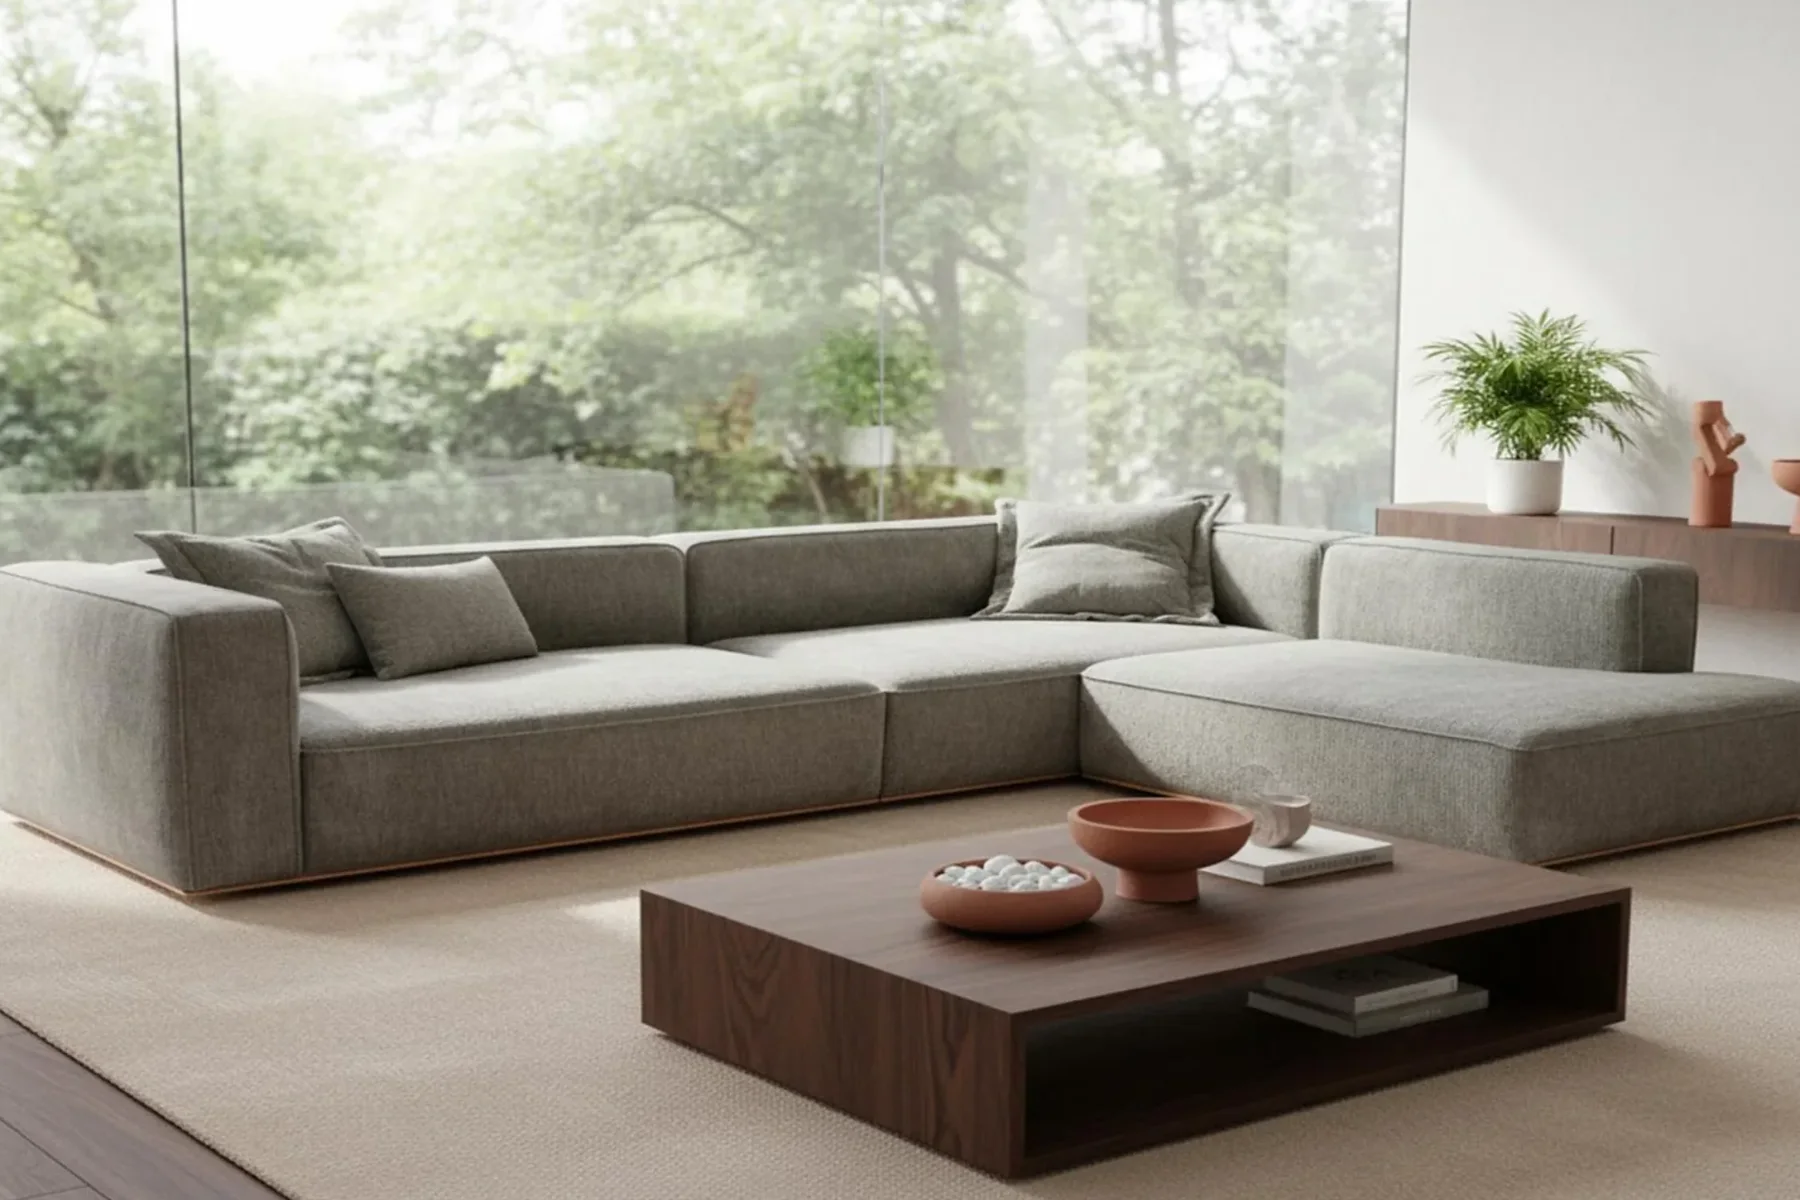
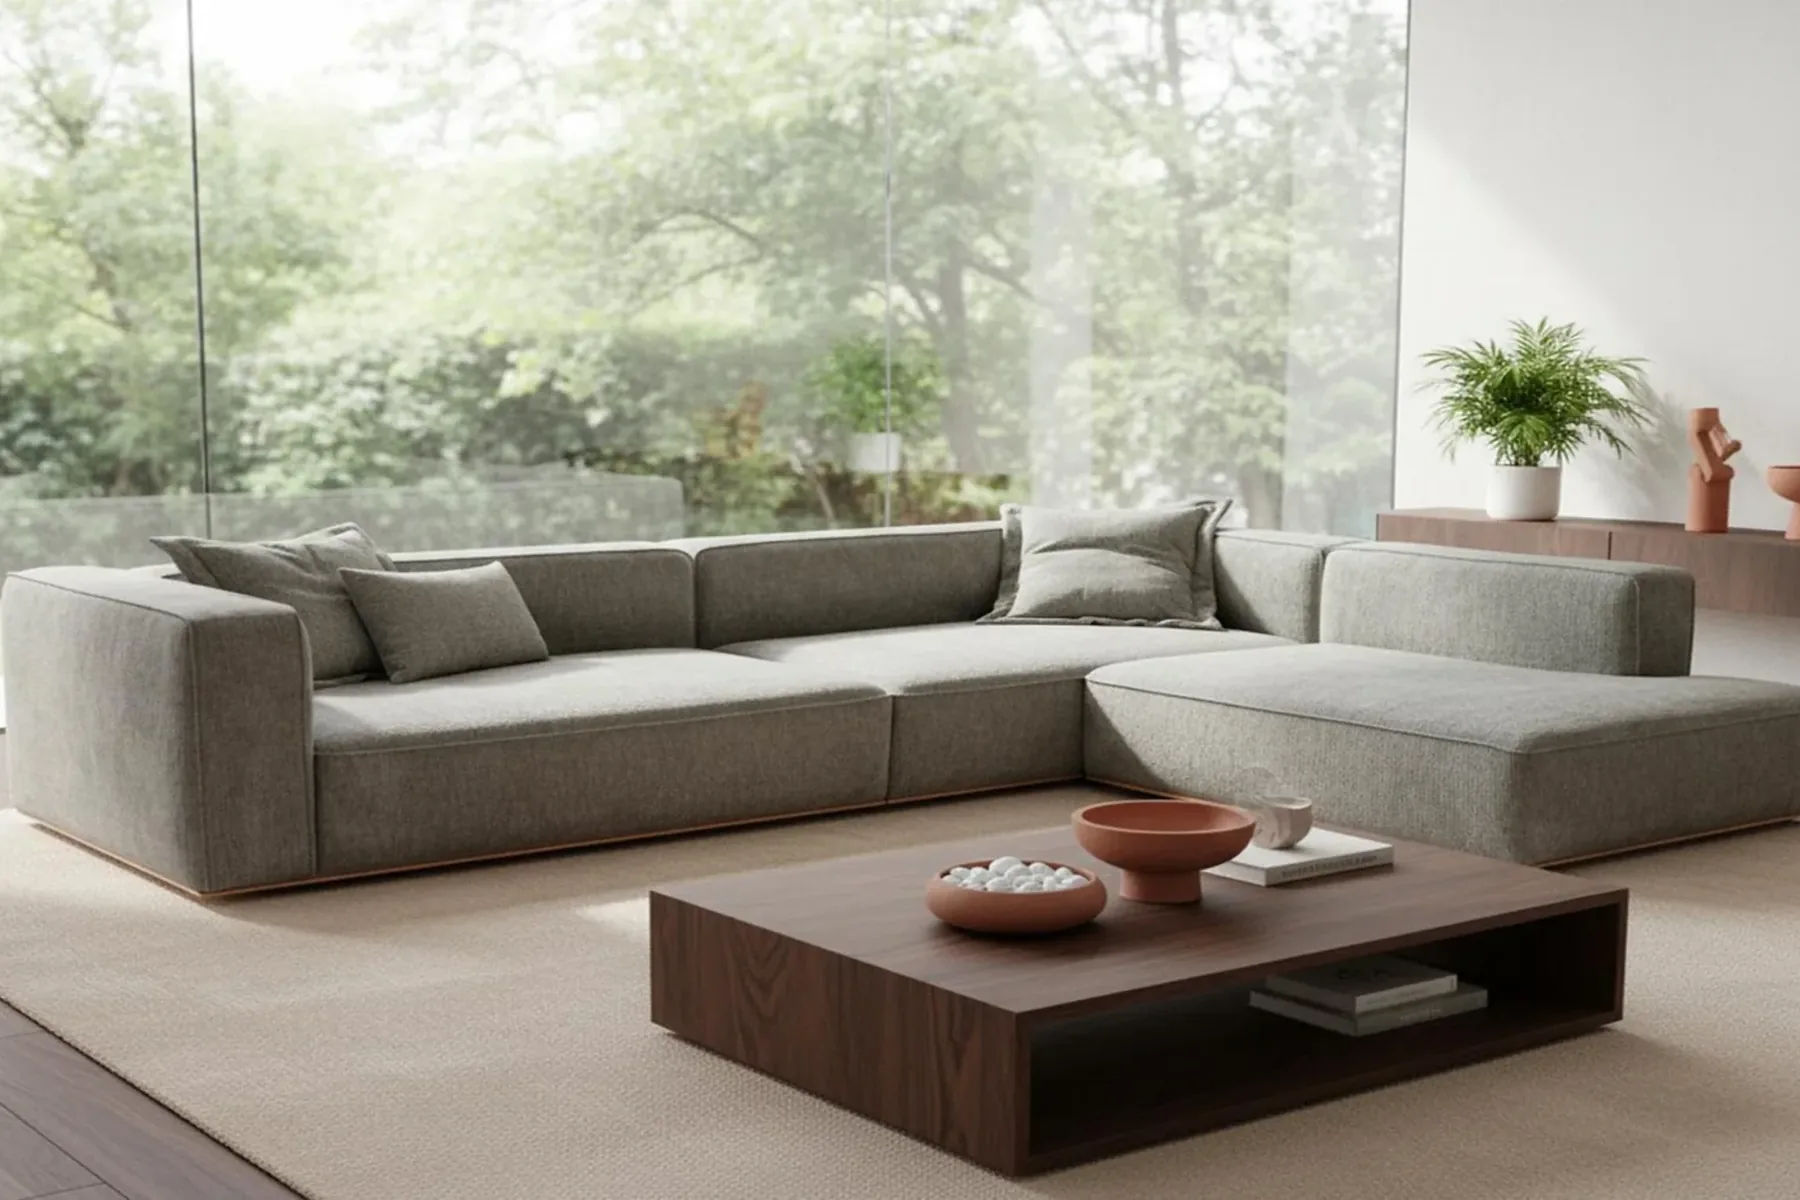
Vorschau aus 465d299: Modelluebersicht: Modena-Karte mit ganzem Sofa und Couchtisch

diff --git a/en/modell-modena.html b/en/modell-modena.html
@@ -16,10 +16,10 @@
 <meta property="og:title" content="Modena – sofatrend">
 <meta property="og:description" content="Low line, visible wood frame all round. Modena relies on a low silhouette and the greatest seat depth in the range. The optional visible wood frame …">
 <meta property="og:url" content="https://timkleinegesse.github.io/mywebsite/en/modell-modena.html">
-<meta property="og:image" content="https://timkleinegesse.github.io/mywebsite/assets/img/modelle/modena-card-1800.webp?v=2367ab90">
+<meta property="og:image" content="https://timkleinegesse.github.io/mywebsite/assets/img/modelle/modena-card-1800.webp?v=fccf84b3">
 <script>document.documentElement.className += ' js';</script>
-<link rel="preload" as="image" href="../assets/img/modelle/modena-card-1200.webp?v=35cd6590"
-      imagesrcset="../assets/img/modelle/modena-card-600.webp?v=fb72e2b9 600w, ../assets/img/modelle/modena-card-1200.webp?v=35cd6590 1200w, ../assets/img/modelle/modena-card-1800.webp?v=2367ab90 1800w"
+<link rel="preload" as="image" href="../assets/img/modelle/modena-card-1200.webp?v=1f40b617"
+      imagesrcset="../assets/img/modelle/modena-card-600.webp?v=7b9390b1 600w, ../assets/img/modelle/modena-card-1200.webp?v=1f40b617 1200w, ../assets/img/modelle/modena-card-1800.webp?v=fccf84b3 1800w"
       imagesizes="(min-width: 1300px) 700px, (min-width: 900px) 56vw, 94vw" fetchpriority="high">
 <link rel="preload" href="../assets/fonts/inter-latin.woff2" as="font" type="font/woff2" crossorigin>
 <link rel="preload" href="../assets/fonts/sourceserif4-latin.woff2" as="font" type="font/woff2" crossorigin>
@@ -45,7 +45,7 @@
       },
       "category": "Polstermöbel",
       "description": "Low line, visible wood frame all round. Modena relies on a low silhouette and the greatest seat depth in the range. The optional visible wood frame runs around the piece as a visible plinth edge and gives the range its own character.",
-      "image": "https://timkleinegesse.github.io/mywebsite/assets/img/modelle/modena-card-1800.webp?v=2367ab90",
+      "image": "https://timkleinegesse.github.io/mywebsite/assets/img/modelle/modena-card-1800.webp?v=fccf84b3",
       "url": "https://timkleinegesse.github.io/mywebsite/en/modell-modena.html"
     },
     {
@@ -102,8 +102,8 @@
   <section class="section model-head">
     <div class="wrap model-head__grid">
       <div class="model-head__media">
-        <img src="../assets/img/modelle/modena-card-1200.webp?v=35cd6590"
-             srcset="../assets/img/modelle/modena-card-600.webp?v=fb72e2b9 600w, ../assets/img/modelle/modena-card-1200.webp?v=35cd6590 1200w, ../assets/img/modelle/modena-card-1800.webp?v=2367ab90 1800w"
+        <img src="../assets/img/modelle/modena-card-1200.webp?v=1f40b617"
+             srcset="../assets/img/modelle/modena-card-600.webp?v=7b9390b1 600w, ../assets/img/modelle/modena-card-1200.webp?v=1f40b617 1200w, ../assets/img/modelle/modena-card-1800.webp?v=fccf84b3 1800w"
              sizes="(min-width: 1300px) 700px, (min-width: 900px) 56vw, 94vw"
              alt="Modena in a living room setting" width="1800" height="1200"
              fetchpriority="high" decoding="async">

diff --git a/modell-modena.html b/modell-modena.html
@@ -16,10 +16,10 @@
 <meta property="og:title" content="Modena – sofatrend">
 <meta property="og:description" content="Niedrige Linie, umlaufender Sichtholzrahmen. Modena setzt auf eine flache Silhouette und die größte Sitztiefe im Programm. Der optionale …">
 <meta property="og:url" content="https://timkleinegesse.github.io/mywebsite/modell-modena.html">
-<meta property="og:image" content="https://timkleinegesse.github.io/mywebsite/assets/img/modelle/modena-card-1800.webp?v=2367ab90">
+<meta property="og:image" content="https://timkleinegesse.github.io/mywebsite/assets/img/modelle/modena-card-1800.webp?v=fccf84b3">
 <script>document.documentElement.className += ' js';</script>
-<link rel="preload" as="image" href="assets/img/modelle/modena-card-1200.webp?v=35cd6590"
-      imagesrcset="assets/img/modelle/modena-card-600.webp?v=fb72e2b9 600w, assets/img/modelle/modena-card-1200.webp?v=35cd6590 1200w, assets/img/modelle/modena-card-1800.webp?v=2367ab90 1800w"
+<link rel="preload" as="image" href="assets/img/modelle/modena-card-1200.webp?v=1f40b617"
+      imagesrcset="assets/img/modelle/modena-card-600.webp?v=7b9390b1 600w, assets/img/modelle/modena-card-1200.webp?v=1f40b617 1200w, assets/img/modelle/modena-card-1800.webp?v=fccf84b3 1800w"
       imagesizes="(min-width: 1300px) 700px, (min-width: 900px) 56vw, 94vw" fetchpriority="high">
 <link rel="preload" href="assets/fonts/inter-latin.woff2" as="font" type="font/woff2" crossorigin>
 <link rel="preload" href="assets/fonts/sourceserif4-latin.woff2" as="font" type="font/woff2" crossorigin>
@@ -45,7 +45,7 @@
       },
       "category": "Polstermöbel",
       "description": "Niedrige Linie, umlaufender Sichtholzrahmen. Modena setzt auf eine flache Silhouette und die größte Sitztiefe im Programm. Der optionale Sichtholzrahmen läuft als sichtbare Sockelkante um das Möbel und gibt der Reihe ihr eigenes Gesicht.",
-      "image": "https://timkleinegesse.github.io/mywebsite/assets/img/modelle/modena-card-1800.webp?v=2367ab90",
+      "image": "https://timkleinegesse.github.io/mywebsite/assets/img/modelle/modena-card-1800.webp?v=fccf84b3",
       "url": "https://timkleinegesse.github.io/mywebsite/modell-modena.html"
     },
     {
@@ -102,8 +102,8 @@
   <section class="section model-head">
     <div class="wrap model-head__grid">
       <div class="model-head__media">
-        <img src="assets/img/modelle/modena-card-1200.webp?v=35cd6590"
-             srcset="assets/img/modelle/modena-card-600.webp?v=fb72e2b9 600w, assets/img/modelle/modena-card-1200.webp?v=35cd6590 1200w, assets/img/modelle/modena-card-1800.webp?v=2367ab90 1800w"
+        <img src="assets/img/modelle/modena-card-1200.webp?v=1f40b617"
+             srcset="assets/img/modelle/modena-card-600.webp?v=7b9390b1 600w, assets/img/modelle/modena-card-1200.webp?v=1f40b617 1200w, assets/img/modelle/modena-card-1800.webp?v=fccf84b3 1800w"
              sizes="(min-width: 1300px) 700px, (min-width: 900px) 56vw, 94vw"
              alt="Modena in einer Wohnszene" width="1800" height="1200"
              fetchpriority="high" decoding="async">

diff --git a/en/modell-deep-seat.html b/en/modell-deep-seat.html
@@ -238,7 +238,7 @@
       <div class="model-grid">
   <a class="model-card" href="modell-modena.html">
     <div class="model-card__media model-card__media--cover">
-      <img src="../assets/img/modelle/modena-card-600.webp?v=fb72e2b9" srcset="../assets/img/modelle/modena-card-600.webp?v=fb72e2b9 600w, ../assets/img/modelle/modena-card-1200.webp?v=35cd6590 1200w"
+      <img src="../assets/img/modelle/modena-card-600.webp?v=7b9390b1" srcset="../assets/img/modelle/modena-card-600.webp?v=7b9390b1 600w, ../assets/img/modelle/modena-card-1200.webp?v=1f40b617 1200w"
            sizes="(min-width: 1000px) 33vw, (min-width: 640px) 50vw, 100vw" alt="" loading="lazy" width="1200" height="800">
     </div>
     <div class="model-card__body">

diff --git a/modell-deep-seat.html b/modell-deep-seat.html
@@ -239,7 +239,7 @@
       <div class="model-grid">
   <a class="model-card" href="modell-modena.html">
     <div class="model-card__media model-card__media--cover">
-      <img src="assets/img/modelle/modena-card-600.webp?v=fb72e2b9" srcset="assets/img/modelle/modena-card-600.webp?v=fb72e2b9 600w, assets/img/modelle/modena-card-1200.webp?v=35cd6590 1200w"
+      <img src="assets/img/modelle/modena-card-600.webp?v=7b9390b1" srcset="assets/img/modelle/modena-card-600.webp?v=7b9390b1 600w, assets/img/modelle/modena-card-1200.webp?v=1f40b617 1200w"
            sizes="(min-width: 1000px) 33vw, (min-width: 640px) 50vw, 100vw" alt="" loading="lazy" width="1200" height="800">
     </div>
     <div class="model-card__body">

diff --git a/en/modell-deep-free.html b/en/modell-deep-free.html
@@ -247,7 +247,7 @@
   </a>
   <a class="model-card" href="modell-modena.html">
     <div class="model-card__media model-card__media--cover">
-      <img src="../assets/img/modelle/modena-card-600.webp?v=fb72e2b9" srcset="../assets/img/modelle/modena-card-600.webp?v=fb72e2b9 600w, ../assets/img/modelle/modena-card-1200.webp?v=35cd6590 1200w"
+      <img src="../assets/img/modelle/modena-card-600.webp?v=7b9390b1" srcset="../assets/img/modelle/modena-card-600.webp?v=7b9390b1 600w, ../assets/img/modelle/modena-card-1200.webp?v=1f40b617 1200w"
            sizes="(min-width: 1000px) 33vw, (min-width: 640px) 50vw, 100vw" alt="" loading="lazy" width="1200" height="800">
     </div>
     <div class="model-card__body">

diff --git a/en/modell-monza.html b/en/modell-monza.html
@@ -245,7 +245,7 @@
   </a>
   <a class="model-card" href="modell-modena.html">
     <div class="model-card__media model-card__media--cover">
-      <img src="../assets/img/modelle/modena-card-600.webp?v=fb72e2b9" srcset="../assets/img/modelle/modena-card-600.webp?v=fb72e2b9 600w, ../assets/img/modelle/modena-card-1200.webp?v=35cd6590 1200w"
+      <img src="../assets/img/modelle/modena-card-600.webp?v=7b9390b1" srcset="../assets/img/modelle/modena-card-600.webp?v=7b9390b1 600w, ../assets/img/modelle/modena-card-1200.webp?v=1f40b617 1200w"
            sizes="(min-width: 1000px) 33vw, (min-width: 640px) 50vw, 100vw" alt="" loading="lazy" width="1200" height="800">
     </div>
     <div class="model-card__body">

diff --git a/en/kollektion.html b/en/kollektion.html
@@ -80,7 +80,7 @@
   </a>
   <a class="model-card" href="modell-modena.html">
     <div class="model-card__media model-card__media--cover">
-      <img src="../assets/img/modelle/modena-card-600.webp?v=fb72e2b9" srcset="../assets/img/modelle/modena-card-600.webp?v=fb72e2b9 600w, ../assets/img/modelle/modena-card-1200.webp?v=35cd6590 1200w"
+      <img src="../assets/img/modelle/modena-card-600.webp?v=7b9390b1" srcset="../assets/img/modelle/modena-card-600.webp?v=7b9390b1 600w, ../assets/img/modelle/modena-card-1200.webp?v=1f40b617 1200w"
            sizes="(min-width: 1000px) 33vw, (min-width: 640px) 50vw, 100vw" alt="" loading="lazy" width="1200" height="800">
     </div>
     <div class="model-card__body">

diff --git a/modell-deep-free.html b/modell-deep-free.html
@@ -248,7 +248,7 @@
   </a>
   <a class="model-card" href="modell-modena.html">
     <div class="model-card__media model-card__media--cover">
-      <img src="assets/img/modelle/modena-card-600.webp?v=fb72e2b9" srcset="assets/img/modelle/modena-card-600.webp?v=fb72e2b9 600w, assets/img/modelle/modena-card-1200.webp?v=35cd6590 1200w"
+      <img src="assets/img/modelle/modena-card-600.webp?v=7b9390b1" srcset="assets/img/modelle/modena-card-600.webp?v=7b9390b1 600w, assets/img/modelle/modena-card-1200.webp?v=1f40b617 1200w"
            sizes="(min-width: 1000px) 33vw, (min-width: 640px) 50vw, 100vw" alt="" loading="lazy" width="1200" height="800">
     </div>
     <div class="model-card__body">

diff --git a/modell-monza.html b/modell-monza.html
@@ -246,7 +246,7 @@
   </a>
   <a class="model-card" href="modell-modena.html">
     <div class="model-card__media model-card__media--cover">
-      <img src="assets/img/modelle/modena-card-600.webp?v=fb72e2b9" srcset="assets/img/modelle/modena-card-600.webp?v=fb72e2b9 600w, assets/img/modelle/modena-card-1200.webp?v=35cd6590 1200w"
+      <img src="assets/img/modelle/modena-card-600.webp?v=7b9390b1" srcset="assets/img/modelle/modena-card-600.webp?v=7b9390b1 600w, assets/img/modelle/modena-card-1200.webp?v=1f40b617 1200w"
            sizes="(min-width: 1000px) 33vw, (min-width: 640px) 50vw, 100vw" alt="" loading="lazy" width="1200" height="800">
     </div>
     <div class="model-card__body">

diff --git a/kollektion.html b/kollektion.html
@@ -80,7 +80,7 @@
   </a>
   <a class="model-card" href="modell-modena.html">
     <div class="model-card__media model-card__media--cover">
-      <img src="assets/img/modelle/modena-card-600.webp?v=fb72e2b9" srcset="assets/img/modelle/modena-card-600.webp?v=fb72e2b9 600w, assets/img/modelle/modena-card-1200.webp?v=35cd6590 1200w"
+      <img src="assets/img/modelle/modena-card-600.webp?v=7b9390b1" srcset="assets/img/modelle/modena-card-600.webp?v=7b9390b1 600w, assets/img/modelle/modena-card-1200.webp?v=1f40b617 1200w"
            sizes="(min-width: 1000px) 33vw, (min-width: 640px) 50vw, 100vw" alt="" loading="lazy" width="1200" height="800">
     </div>
     <div class="model-card__body">
